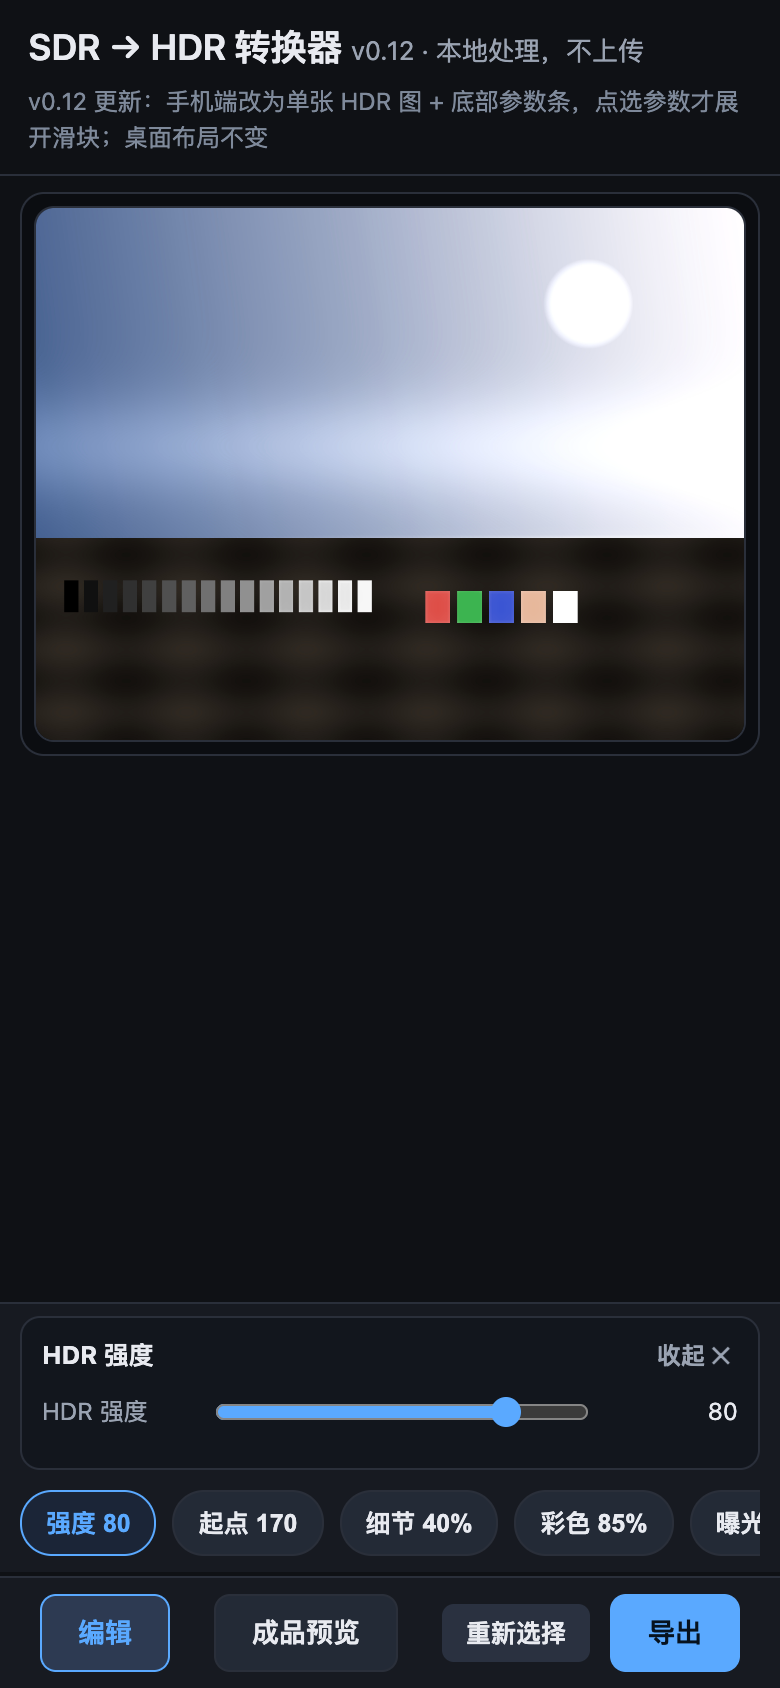
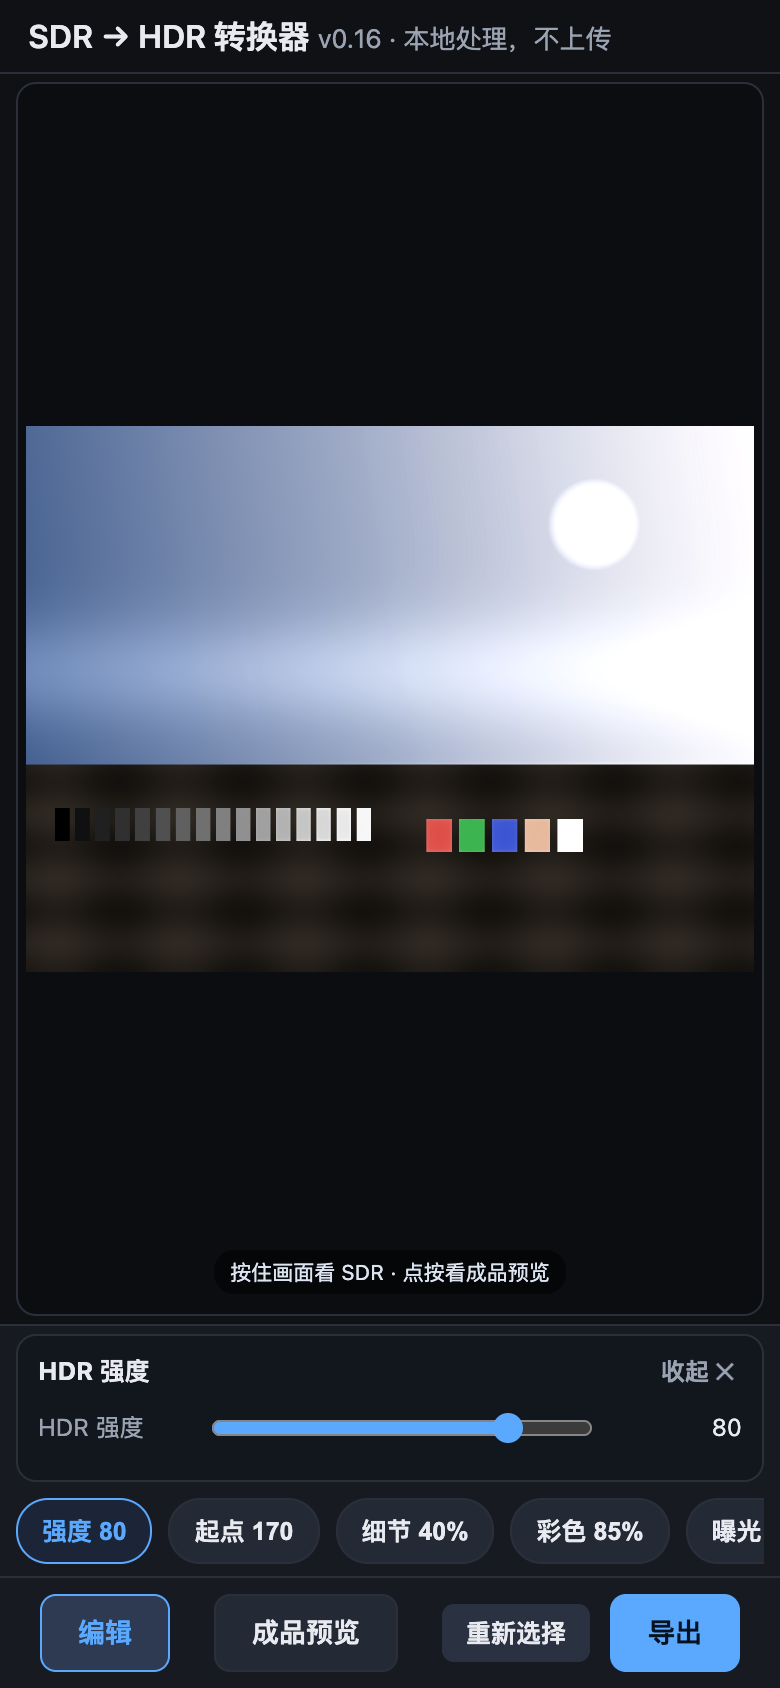
feat(mobile): v0.16 fixed app-style mobile layout with no page scrolling
- Mobile editor is now a fixed viewport app: compact top bar (title+version), bottom parameter bar and nav fixed, middle photo area flexes to fill the remaining space
- Photo is fully contained (no crop, no scrolling), including long/portrait images; tap photo opens fullscreen preview
- Opening a parameter sheet pushes the photo area up and shrinks it while keeping the whole photo visible; page never scrolls
- Mobile breakpoint extended to 960px to cover phone landscape and tablet sizes; safe-area support added; desktop LR layout untouched
- Added layout assertions to tools/test_mobile.js (no scroll, photo fits, sheet pushes not covers, bottom bar pinned)
- Docs/screenshots/version updated; local commit only

diff --git a/index.html b/index.html
@@ -2,8 +2,8 @@
 <html lang="zh-CN">
 <head>
 <meta charset="utf-8">
-<meta name="viewport" content="width=device-width, initial-scale=1">
-<title>SDR → HDR 转换器（本地网页版）v0.15</title>
+<meta name="viewport" content="width=device-width, initial-scale=1, viewport-fit=cover">
+<title>SDR → HDR 转换器（本地网页版）v0.16</title>
 <style>
   :root {
     --bg: #0f1115; --panel: #171a21; --line: #2a2f3a; --fg: #e8eaf0;
@@ -89,7 +89,7 @@
     min-height: 100%; align-content: center; }
   .previews.single { grid-template-columns: 1fr; }
   .previews.single #figHdr { display: none; }
-  @media (max-width: 760px) { .previews { grid-template-columns: 1fr; } }
+  @media (max-width: 960px) { .previews { grid-template-columns: 1fr; } }
   figure { margin: 0; background: var(--panel); border: 1px solid var(--line); border-radius: 10px; overflow: hidden; }
   figure canvas { display: block; width: 100%; height: auto; max-height: 74vh; object-fit: contain; background: #000; }
   figcaption { padding: 8px 12px; font-size: 12px; color: var(--muted); border-top: 1px solid var(--line); }
@@ -206,28 +206,69 @@
   .m-chips::-webkit-scrollbar { display: none; }
   .m-chip { flex: none; background: #232a36; color: var(--fg); border: 1px solid var(--line); border-radius: 16px; padding: 7px 12px; font-size: 12.5px; white-space: nowrap; cursor: pointer; }
   .m-chip.on { border-color: var(--accent); color: var(--accent); background: #1b2537; }
-  @media (max-width: 760px) {
-    html, body { height: auto; }
-    body { display: block; overflow: auto; min-height: 100dvh; }
-    header { padding: 10px 14px 8px; }
+  @media (max-width: 960px) {
+    /* ===== App 式固定布局：顶部栏 + 自适应照片 + 底部参数/导航 ===== */
+    html, body { height: 100%; height: 100dvh; }
+    body {
+      display: flex; flex-direction: column; overflow: hidden; min-height: 0;
+      overscroll-behavior: none;
+    }
+    header {
+      flex: 0 0 auto; padding: calc(8px + env(safe-area-inset-top, 0px)) 14px 8px;
+      display: flex; align-items: center; justify-content: space-between;
+    }
+    header h1 { font-size: 16px; margin: 0; line-height: 1.25; }
     header p { display: none; }
-    .ver-note { margin-bottom: 0; }
-    main { padding: 8px 10px 190px; }
-    .app-shell { grid-template-columns: 1fr; height: auto; }
-    .viewer { height: auto; overflow: visible; }
-    .previews { grid-template-columns: 1fr; padding: 6px; min-height: 0; }
+    .ver-note { display: none; }
+    main {
+      flex: 1 1 auto; min-height: 0; display: flex; flex-direction: column;
+      overflow-y: auto; overflow-x: hidden; padding: 4px 8px 4px; justify-content: center;
+    }
+    #editor {
+      flex: 1 1 auto; min-height: 0; display: flex; flex-direction: column; height: 100%;
+    }
+    .app-shell { grid-template-columns: 1fr; height: 100%; min-height: 0; display: flex; flex-direction: column; align-items: stretch; }
+    .viewer { flex: 1 1 auto; min-height: 0; height: auto; width: 100%; overflow: hidden; display: flex; }
+    .previews {
+      flex: 1 1 auto; min-height: 0; height: 100%; padding: 4px; margin: 0;
+      display: flex; align-items: center; justify-content: center; grid-template-columns: 1fr;
+      background: #0b0d11; border: 1px solid var(--line); border-radius: 10px;
+    }
     .previews #figSdr { display: none; }
+    .previews.single #figHdr { display: flex; }
+    #figHdr {
+      flex: 1 1 auto; min-height: 0; height: 100%; width: 100%;
+      display: flex; align-items: center; justify-content: center;
+      border: 0; background: #0b0d11; border-radius: 8px; overflow: hidden;
+    }
+    #figHdr > canvas, #figHdr > img {
+      width: auto; height: auto; max-width: 100%; max-height: 100%;
+      object-fit: contain; background: #000;
+    }
+    .press-sdr {
+      position: absolute; inset: 0; width: 100%; height: 100%;
+      object-fit: contain; background: transparent; z-index: 5;
+    }
+    #figHdr figcaption, #figHdr .fig-hint { display: none; }
+    .press-hint { display: block; bottom: 6px; font-size: 10.5px; padding: 3px 8px; }
     .side-panel { display: none; }
-    .mobile-params { display: block; position: fixed; left: 0; right: 0; bottom: 58px; z-index: 59; }
-    .bottom-bar { position: fixed; left: 0; right: 0; bottom: 0; z-index: 60;
-                  padding: 6px 10px calc(6px + env(safe-area-inset-bottom, 0px)); gap: 6px; }
-    .bb-btn { padding: 8px 12px; font-size: 12.5px; }
+    .mobile-params {
+      position: static; flex: 0 0 auto; display: block;
+      padding: 4px 8px 0; border-top: 1px solid var(--line); background: var(--panel);
+    }
+    .m-sheet { max-height: 34vh; overflow: auto; margin-bottom: 4px; padding: 7px 10px 8px; }
+    .bottom-bar {
+      position: static; flex: 0 0 auto;
+      padding: 6px 8px calc(6px + env(safe-area-inset-bottom, 0px)); gap: 6px;
+    }
+    .bb-btn { padding: 8px 10px; font-size: 12.5px; }
     .bb-status { display: none; }
     .bb-center { justify-content: center; }
+    .drop { flex: 0 0 auto; margin: auto; width: 100%; max-width: 520px; }
     .drop.compact { margin-bottom: 6px; }
     body.loaded .drop { display: none !important; }
-    #figHdr figcaption, #figHdr .fig-hint { display: none; }
-    .press-hint { display: block; }
+    #exportScreen { flex: 0 0 auto; }
+    .screen { flex: 0 0 auto; overflow: visible; }
   }
 
   /* ===== 底部导航（编辑 / 成品预览 / 导出） ===== */
@@ -285,8 +326,8 @@
 </head>
 <body>
 <header>
-  <h1>SDR → HDR 转换器 <span style="color:var(--muted);font-weight:400;font-size:13px">v0.15 · 本地处理，不上传</span></h1>
-  <div class="ver-note">v0.15 更新：新增 TIF / TIFF 输入（内置解码，支持 16-bit、LZW/无压缩/Deflate，自动转 JPEG 底图）</div>
+  <h1>SDR → HDR 转换器 <span style="color:var(--muted);font-weight:400;font-size:13px">v0.16 · 本地处理，不上传</span></h1>
+  <div class="ver-note">v0.16 更新：手机端改为固定顶栏 + 底部参数/导航 + 中间自适应照片，调整参数不再需要上下滑动</div>
   <p>把普通 SDR JPG / PNG 转成带增益图（gain map）的 HDR JPG：<b>HDR 屏上</b>高光更亮、画面更通透；
      <b>普通屏 / 旧软件</b>显示和原图完全一样。原图字节（含 EXIF/ICC）原样保留，全程在浏览器本地处理。</p>
 </header>
@@ -3471,7 +3512,7 @@ function bindUi() {
  * 测试钩子（headless Chrome / 自动化验证）
  * ============================================================ */
 window.__hdrApp = {
-  version: "0.15",
+  version: "0.16",
   defaultParams: DEFAULT_PARAMS,
   async encodeFromArrayBuffer(buffer, paramsOrStrength, gainScaleOpt, exportOptsOpt) {
     let params;

diff --git a/tools/test_mobile.js b/tools/test_mobile.js
@@ -30,6 +30,7 @@ const SHOTS = path.join(ROOT, "tests");
 
   const layout = await page.evaluate(() => {
     const disp = (id) => getComputedStyle(document.getElementById(id)).display;
+    const rr = (id) => { const r = document.getElementById(id).getBoundingClientRect(); return { top: Math.round(r.top), bottom: Math.round(r.bottom), h: Math.round(r.height), w: Math.round(r.width) }; };
     return {
       figSdr: disp("figSdr"),
       sidePanel: disp("sidePanel"),
@@ -37,6 +38,9 @@ const SHOTS = path.join(ROOT, "tests");
       figHdr: disp("figHdr"),
       chips: document.querySelectorAll("#mChips .m-chip").length,
       dropHidden: getComputedStyle(document.getElementById("drop")).display === "none",
+      scrollH: document.documentElement.scrollHeight,
+      viewH: innerHeight,
+      figRect: rr("figHdr"), canvasRect: rr("cvHdr"), chipsRect: rr("mobileParams"), barRect: rr("bottomBar"),
     };
   });
   console.log("mobile layout:", JSON.stringify(layout));
@@ -45,7 +49,11 @@ const SHOTS = path.join(ROOT, "tests");
   if (layout.mobileParams !== "block") errors.push("mobile parameter bar missing");
   if (layout.chips < 6) errors.push("mobile chips missing");
   if (!layout.dropHidden) errors.push("drop zone should be hidden after load on mobile");
-  await page.screenshot({ path: path.join(SHOTS, "ui_v12_mobile_edit.png") });
+  if (layout.scrollH !== layout.viewH) errors.push("mobile editor page should not scroll");
+  if (layout.figRect.bottom > layout.chipsRect.top + 1) errors.push("photo area overlaps bottom parameter bar");
+  if (layout.canvasRect.h > layout.figRect.h + 1 || layout.canvasRect.w > layout.figRect.w + 1) errors.push("photo does not fit in viewer");
+  if (layout.barRect.bottom !== layout.viewH) errors.push("bottom nav should be fixed at viewport bottom");
+  await page.screenshot({ path: path.join(SHOTS, "ui_v16_mobile_edit.png") });
 
   // 按住画面 → 显示 SDR，松开恢复
   await page.evaluate(() => {
@@ -79,14 +87,23 @@ const SHOTS = path.join(ROOT, "tests");
   // 点“强度” chip → 展开滑块，调整后同步到桌面隐藏控件
   await page.evaluate(() => [...document.querySelectorAll("#mChips .m-chip")].find((b) => b.dataset.param === "strength").click());
   await new Promise((r) => setTimeout(r, 300));
-  const sheet = await page.evaluate(() => ({
-    visible: !document.getElementById("mSheet").classList.contains("hidden"),
-    rows: document.querySelectorAll("#mSheet .m-row").length,
-    value: document.querySelector("#mSheet input[type=range]").value,
-    nan: document.getElementById("mSheet").innerText.indexOf("NaN") >= 0,
-  }));
+  const sheet = await page.evaluate(() => {
+    const rr = (id) => { const r = document.getElementById(id).getBoundingClientRect(); return { top: Math.round(r.top), bottom: Math.round(r.bottom), h: Math.round(r.height) }; };
+    return {
+      visible: !document.getElementById("mSheet").classList.contains("hidden"),
+      rows: document.querySelectorAll("#mSheet .m-row").length,
+      value: document.querySelector("#mSheet input[type=range]").value,
+      nan: document.getElementById("mSheet").innerText.indexOf("NaN") >= 0,
+      scrollH: document.documentElement.scrollHeight,
+      viewH: innerHeight,
+      figHdr: rr("figHdr"), chipsTop: rr("mobileParams").top, barBottom: rr("bottomBar").bottom,
+    };
+  });
   console.log("strength sheet:", JSON.stringify(sheet));
   if (!sheet.visible || sheet.rows !== 1 || sheet.nan) errors.push("mobile sheet state wrong");
+  if (sheet.scrollH !== sheet.viewH) errors.push("sheet should not make the page scroll");
+  if (sheet.figHdr.bottom > sheet.chipsTop + 1) errors.push("sheet should push photo area up, not overlap");
+  if (sheet.barBottom !== sheet.viewH) errors.push("bottom nav moved after sheet opened");
   await page.evaluate(() => {
     const inp = document.querySelector("#mSheet input[type=range]");
     inp.value = "80";
@@ -99,7 +116,7 @@ const SHOTS = path.join(ROOT, "tests");
   }));
   console.log("synced strength:", JSON.stringify(synced));
   if (synced.desktop !== "80" || !synced.chip.includes("80")) errors.push("mobile slider not synced");
-  await page.screenshot({ path: path.join(SHOTS, "ui_v12_mobile_sheet.png") });
+  await page.screenshot({ path: path.join(SHOTS, "ui_v16_mobile_sheet.png") });
 
   // 高级参数面板
   await page.evaluate(() => [...document.querySelectorAll("#mChips .m-chip")].find((b) => b.dataset.param === "advanced").click());
@@ -107,7 +124,7 @@ const SHOTS = path.join(ROOT, "tests");
   const advRows = await page.evaluate(() => document.querySelectorAll("#mSheet .m-row").length);
   console.log("advanced sheet rows:", advRows);
   if (advRows < 5) errors.push("advanced mobile sheet incomplete");
-  await page.screenshot({ path: path.join(SHOTS, "ui_v12_mobile_advanced.png") });
+  await page.screenshot({ path: path.join(SHOTS, "ui_v16_mobile_advanced.png") });
 
   // 导出界面：移动参数条与底栏隐藏
   await page.click("#exportBtn");
@@ -119,7 +136,7 @@ const SHOTS = path.join(ROOT, "tests");
   }));
   console.log("mobile export:", JSON.stringify(exp));
   if (!exp.exportVisible || !exp.chipsHidden || !exp.bottomHidden) errors.push("mobile export screen wrong");
-  await page.screenshot({ path: path.join(SHOTS, "ui_v12_mobile_export.png") });
+  await page.screenshot({ path: path.join(SHOTS, "ui_v16_mobile_export.png") });
 
   console.log("js errors:", errors.length ? errors : "none");
   if (errors.length) process.exitCode = 1;

diff --git a/README.md b/README.md
@@ -16,7 +16,8 @@
 - **增益图灰度预览**：桌面预览模式 / 手机参数条可切换到灰度增益图，白色=提亮最多、黑色=不变，直观查看 HDR 提亮分布
 - **手机长按对比**：按住画面显示 SDR，松开恢复 HDR，点按进入成品预览
 - **整体曝光只作用于 HDR**：不修改 SDR 底图；可开启「仅整体曝光」忽略其他参数，做纯曝光提亮
-- **手机端**：只显示 HDR 图 + 底部参数条（核心 5 项 + 高级），点选参数才展开滑块；底部导航同桌面
+- **手机端**：App 式固定布局——顶部极简标题栏、底部参数条/导航固定，中间照片区域自适应并**完整显示整张照片**（长图不滚动）；
+  点选参数才展开滑块，面板向上顶起、照片自动缩小但完整可见
 - **独立导出界面**：JPEG 质量（70–100，仅重编码底图时生效）、文字水印 / 图片 Logo 水印（后加在 SDR 层，不参与 HDR 提亮）
 - **成品预览**：全屏显示最终导出字节（含质量/水印设置），按最终分辨率原生渲染
 - **SDR/HDR 对比拼图**：导出上下对照图（真 HDR：HDR 一半带真实增益图），可切换顺序、标签、中缝与输出尺寸，适合分享

diff --git a/CHANGELOG.md b/CHANGELOG.md
@@ -2,6 +2,15 @@
 
 本项目的版本更新记录。从 v0.7 起，页面版本号下方会固定显示一行"本次更新"小字（每次发版同步此处）。
 
+## v0.16 — 2026-10
+
+- **手机端改为 App 式固定布局**：顶部只保留极简标题栏（标题 + 版本），底部参数条与导航固定
+- 中间照片区域自适应剩余屏幕高度，**完整显示整张照片**（长图也不裁切、不滚动），点照片进入成品预览
+- 展开参数面板时面板向上顶起、照片自动缩小并保持完整可见，不再遮挡照片，页面始终不滚动
+- 手机断点由 760px 扩展到 960px，覆盖手机横屏与平板尺寸；安全区适配（刘海/底部）
+- 新增手机布局回归断言（页面不滚动、照片不超出区域、面板不遮挡、底栏贴底）
+- 桌面 Lightroom 布局保持不变
+
 ## v0.15 — 2026-10
 
 - **新增 TIF / TIFF 输入**：内置精简 TIFF 解码器（无第三方依赖），可读取 16-bit / 8-bit、RGB / 灰度、

diff --git a/docs/compatibility.md b/docs/compatibility.md
@@ -23,10 +23,11 @@
 - 不需要联网、不上传文件（除首次加载页面本身）
 - 本机 HDR 渲染状态：页面显示 `dynamic-range: high/standard`
 
-### 移动端界面（v0.12+）
+### 移动端界面（v0.16+）
 
-- ≤760px 自动切换为手机布局：只显示 HDR 图，底部为参数条和导航
-- 点选参数才展开滑块；「高级」里包含高级参数与增益图分辨率
+- ≤960px 自动切换为 App 式布局：顶部极简标题栏、底部参数条/导航固定，中间照片区域自适应
+- 照片完整显示（contain，不裁切、不滚动）；长图/横屏手机也能一屏看全
+- 点选参数才展开滑块，面板向上顶起、照片自动缩小但始终完整可见；「高级」含高级参数与增益图分辨率
 - 手机端建议导出后在系统相册查看真实 HDR 效果；网页内的预览仍是 SDR 模拟
 - 大图/拼图在手机上会较慢，建议先试 12MP 以下或使用「社交尺寸」
 

diff --git a/docs/development.md b/docs/development.md
@@ -78,7 +78,7 @@ node tools/test_ui.js tests/input_synthetic_12mp.jpg
 # 非 macOS 指定浏览器路径
 CHROME_PATH=/usr/bin/google-chrome node tools/test_ui.js tests/input_synthetic_12mp.jpg
 
-# 移动端界面回归（390×844：单图 + 参数条 + 长按 SDR + 导出）
+# 移动端界面回归（390×844：固定布局不滚动 + 参数条上顶 + 长按 SDR + 导出）
 node tools/test_mobile.js tests/input_synthetic_12mp.jpg
 
 # 导入错误提示 / 缺少 JPEG 结束标记自动修复回归
